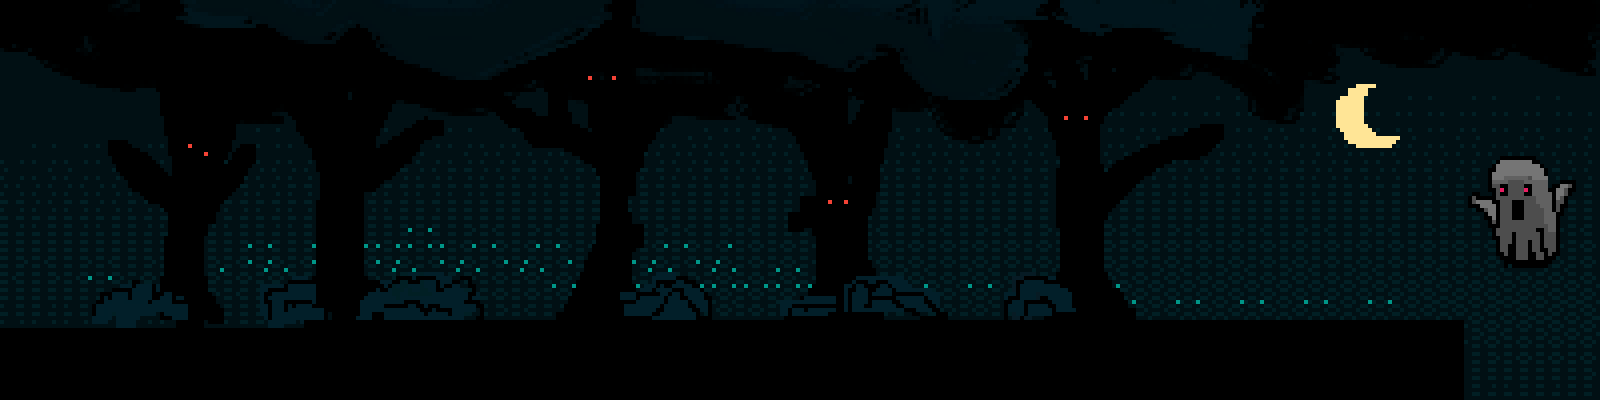
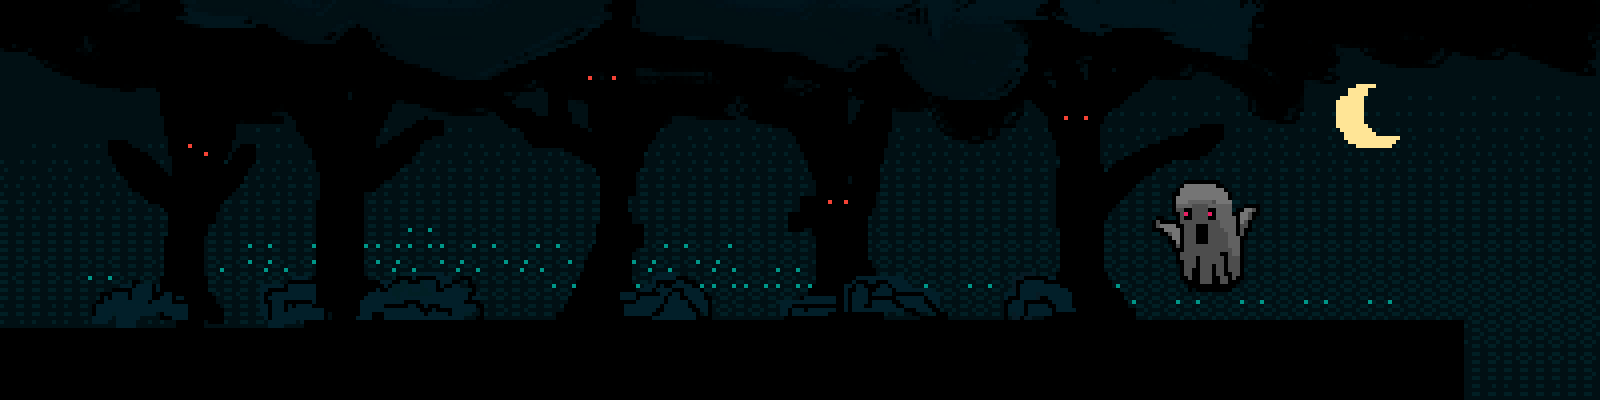
changed file

Changed region(s): [[0.9062, 0.39, 1.0, 0.69], [0.7188, 0.45, 0.7812, 0.75]]

diff --git a/WorldLevel.js b/WorldLevel.js
@@ -4,7 +4,7 @@ class WorldLevel {
 
     this.theme = Object.assign(
       { bg: "#F0F0F0", platform: "#C8C8C8", blob: "#1478FF" },
-      levelJson.theme ?? {},
+      levelJson.theme ?? {}
     );
 
     // Physics knobs
@@ -24,18 +24,19 @@ class WorldLevel {
 
     // Platforms
     this.platforms = (levelJson.platforms ?? []).map(
-      (p) => new Platform(p.x, p.y, p.w, p.h),
+      (p) => new Platform(p.x, p.y, p.w, p.h)
     );
   }
 
-drawWorld() {
-  background(this.theme.bg);
-  push();
-  rectMode(CORNER);          // critical: undo any global rectMode(CENTER) [web:230]
-  noStroke();
-  fill(this.theme.platform);
+  drawWorld() {
+    image(bgImg, 0, 0, this.w, this.h);
 
-  for (const p of this.platforms) rect(p.x, p.y, p.w, p.h); // x,y = top-left [web:234]
-  pop();
-}
+    push();
+    rectMode(CORNER);
+    noStroke();
+    fill(this.theme.platform);
+
+    for (const p of this.platforms) rect(p.x, p.y, p.w, p.h);
+    pop();
+  }
 }

diff --git a/sketch.js b/sketch.js
@@ -25,9 +25,11 @@ let levelIndex = 0;
 let level;
 let player;
 let cam;
+let bgImg;
 
 function preload() {
   allLevelsData = loadJSON("levels.json"); // levels.json beside index.html [web:122]
+  bgImg = loadImage("background_sidequest_w5.png");
 }
 
 function setup() {
